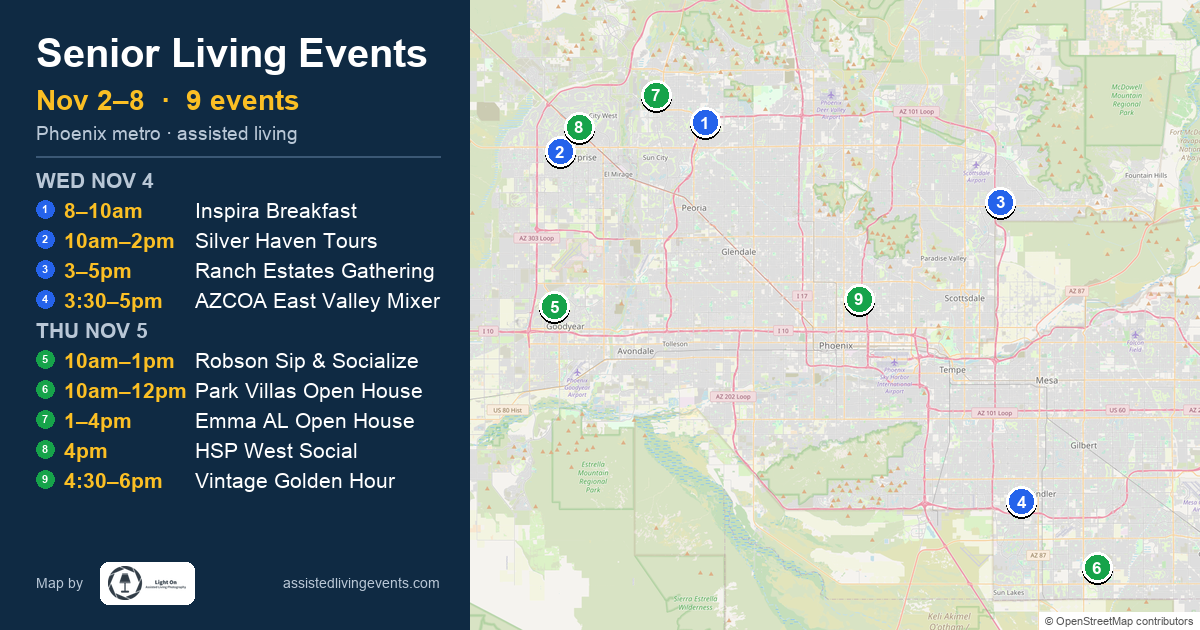
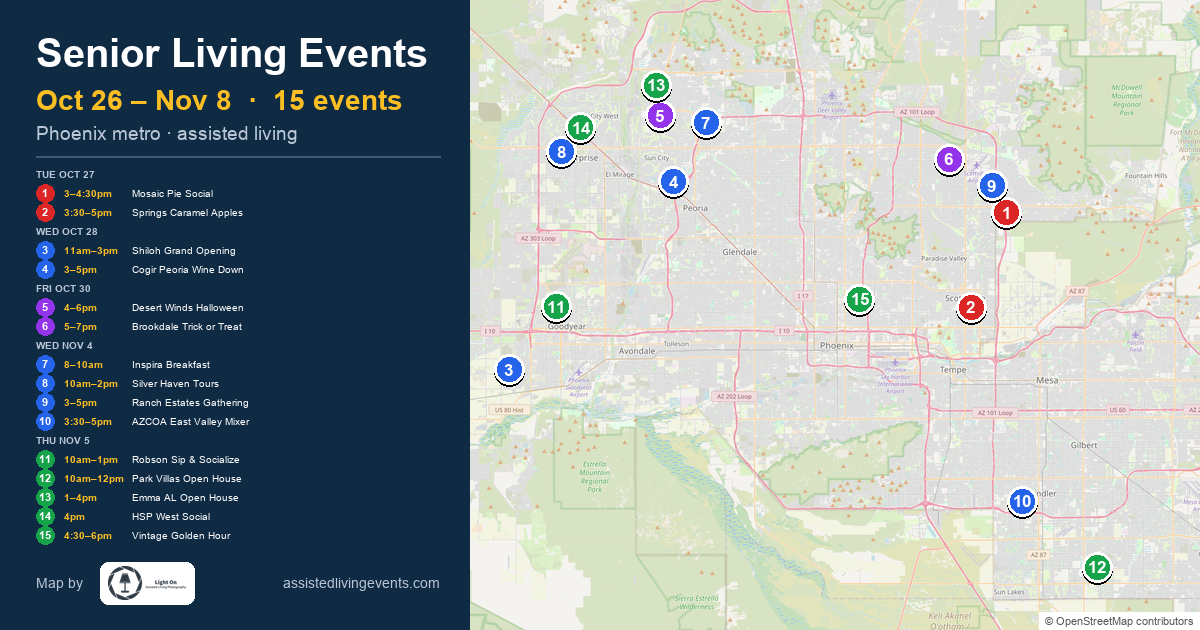
Show last week's events on the map
Build now loads the previous week's CSV along with the current one, and the
header and preview labels span the full date range.

diff --git a/index.html b/index.html
@@ -4,23 +4,23 @@
   <meta charset="UTF-8" />
   <title>Phoenix Metro Weekly Assisted Living Events</title>
   <!-- og:start (generated by scripts/build_preview.py) -->
-  <meta name="description" content="Nov 2–8 · 9 assisted living events across the Valley" />
+  <meta name="description" content="Oct 26 – Nov 8 · 15 assisted living events across the Valley" />
   <meta property="og:type" content="website" />
-  <meta property="og:title" content="Senior Living Events · Nov 2–8" />
-  <meta property="og:description" content="Nov 2–8 · 9 assisted living events across the Valley" />
+  <meta property="og:title" content="Senior Living Events · Oct 26 – Nov 8" />
+  <meta property="og:description" content="Oct 26 – Nov 8 · 15 assisted living events across the Valley" />
   <meta property="og:url" content="https://assistedlivingevents.com/" />
-  <meta property="og:image" content="https://assistedlivingevents.com/images/preview.png?v=2026-11-01-2" />
+  <meta property="og:image" content="https://assistedlivingevents.com/images/preview.png?v=2026-11-08-1" />
   <meta property="og:image:width" content="1200" />
   <meta property="og:image:height" content="630" />
   <meta name="twitter:card" content="summary_large_image" />
-  <meta name="twitter:title" content="Senior Living Events · Nov 2–8" />
-  <meta name="twitter:description" content="Nov 2–8 · 9 assisted living events across the Valley" />
-  <meta name="twitter:image" content="https://assistedlivingevents.com/images/preview.png?v=2026-11-01-2" />
+  <meta name="twitter:title" content="Senior Living Events · Oct 26 – Nov 8" />
+  <meta name="twitter:description" content="Oct 26 – Nov 8 · 15 assisted living events across the Valley" />
+  <meta name="twitter:image" content="https://assistedlivingevents.com/images/preview.png?v=2026-11-08-1" />
   <!-- og:end -->
   <meta name="viewport" content="width=device-width, initial-scale=1" />
   <link href="https://api.mapbox.com/mapbox-gl-js/v3.6.0/mapbox-gl.css" rel="stylesheet" />
   <link href="vendor/leaflet/leaflet.css" rel="stylesheet" />
-  <link href="css/styles.css?v=2026-11-01-2" rel="stylesheet" />
+  <link href="css/styles.css?v=2026-11-08-1" rel="stylesheet" />
 </head>
 <body>
   <header>
@@ -89,8 +89,8 @@
     })();
   </script>
   <script src="https://api.mapbox.com/mapbox-gl-js/v3.6.0/mapbox-gl.js"></script>
-  <script src="js/config.js?v=2026-11-01-2"></script>
-  <script src="js/map.js?v=2026-11-01-2"></script>
+  <script src="js/config.js?v=2026-11-08-1"></script>
+  <script src="js/map.js?v=2026-11-08-1"></script>
   <script data-goatcounter="https://assistedlivingevents.goatcounter.com/count"
           async src="//gc.zgo.at/count.js"></script>
 </body>

diff --git a/js/map.js b/js/map.js
@@ -1031,13 +1031,17 @@ function weekRangeLabel(features) {
     .filter(Boolean)
     .sort();
   if (!dates.length) return "No events this week";
-  const start = new Date(dates[0] + "T12:00:00");
-  const day = start.getDay(); // 0 = Sun
-  const mondayOffset = day === 0 ? -6 : 1 - day;
-  const monday = new Date(start);
-  monday.setDate(start.getDate() + mondayOffset);
-  const saturday = new Date(monday);
-  saturday.setDate(monday.getDate() + 5);
+  // Monday of the week containing an ISO date (dates are sorted, so the
+  // first and last entries span the earliest and latest weeks shown).
+  const mondayOf = (iso) => {
+    const d = new Date(iso + "T12:00:00");
+    const day = d.getDay(); // 0 = Sun
+    d.setDate(d.getDate() + (day === 0 ? -6 : 1 - day));
+    return d;
+  };
+  const monday = mondayOf(dates[0]);
+  const saturday = mondayOf(dates[dates.length - 1]);
+  saturday.setDate(saturday.getDate() + 5);
   const months = [
     "January", "February", "March", "April", "May", "June",
     "July", "August", "September", "October", "November", "December",

diff --git a/js/config.js b/js/config.js
@@ -1,2 +1,2 @@
 const MAPBOX_TOKEN = "pk.eyJ1IjoiY2dydWl0YSIsImEiOiJjbXRhanNoYzkwMGRrMndvYnQ5OWFvcHZoIn0.IXzPp--fY9nrZjRw5MfD2A";
-const MAP_VERSION = "2026-11-01-2";
+const MAP_VERSION = "2026-11-08-1";

diff --git a/scripts/build_events.py b/scripts/build_events.py
@@ -62,17 +62,23 @@ def normalize_category(row: dict) -> str:
 
 def build() -> None:
     today = datetime.date.today()
-    week_start, week_end = current_week_bounds(today)
-    csv_path = config.week_csv_path(today)
+    current_start, week_end = current_week_bounds(today)
+    # The map shows last week too, so events from both weeks are loaded.
+    week_start = current_start - datetime.timedelta(days=7)
 
-    try:
-        rows = fetch_events.fetch(csv_path)
-    except FileNotFoundError:
-        print(
-            f"No source for the week of {week_start.isoformat()} - "
-            f"expected {os.path.relpath(csv_path)}"
-        )
-        sys.exit(1)
+    rows = []
+    for monday in (week_start, current_start):
+        csv_path = config.week_csv_path(monday)
+        try:
+            rows.extend(fetch_events.fetch(csv_path))
+        except FileNotFoundError:
+            if monday == current_start:
+                print(
+                    f"No source for the week of {monday.isoformat()} - "
+                    f"expected {os.path.relpath(csv_path)}"
+                )
+                sys.exit(1)
+            print(f"No source for last week ({os.path.relpath(csv_path)}), skipping it")
 
     cache = geocode_module.load_cache()
 

diff --git a/scripts/build_preview.py b/scripts/build_preview.py
@@ -104,8 +104,10 @@ def fit(draw, text, f, maxw):
 
 
 def week_label(dates):
+    # Span from the Monday of the earliest event's week to the Sunday of the latest one's.
     mon = min(dates) - datetime.timedelta(days=min(dates).weekday())
-    sun = mon + datetime.timedelta(days=6)
+    last = max(dates)
+    sun = last + datetime.timedelta(days=6 - last.weekday())
     if mon.month == sun.month:
         return f"{mon:%b} {mon.day}–{sun.day}", mon
     return f"{mon:%b} {mon.day} – {sun:%b} {sun.day}", mon
